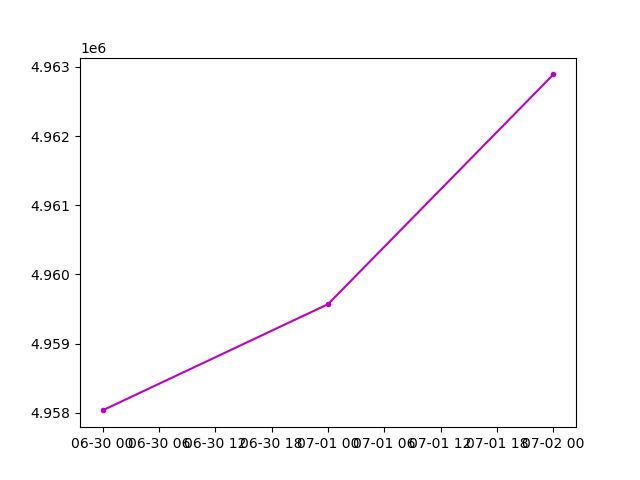
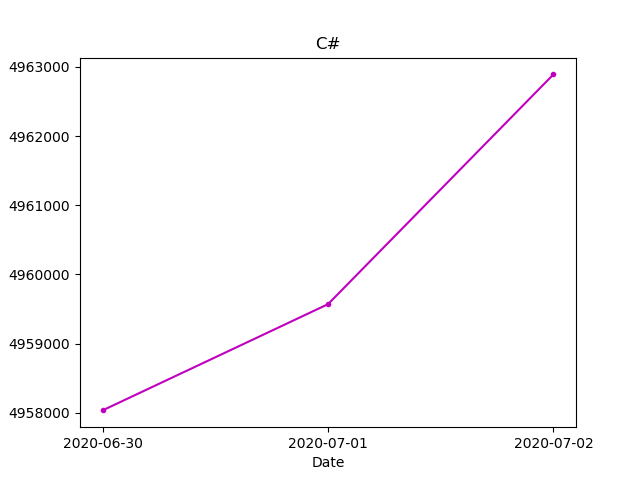
label update

diff --git a/mains/views.py b/mains/views.py
@@ -1,3 +1,4 @@
+from matplotlib.ticker import ScalarFormatter, FormatStrFormatter
 import time
 import requests
 import os
@@ -229,80 +230,166 @@ def setting(request):
     # scala, rust, kotlin, swift, shell, date]
 
     plt.plot(date, javascript, 'rs--')
-
-    print(os.path.join(settings.BASE_DIR, 'mains', 'static',
-                       'mains', 'images', 'javascriptgraph.png'))
-
+    plt.xticks(date)
+    plt.xlabel('Date')
+    plt.ylabel('Issue')
+    plt.title('Javascript')
+    ax = plt.gca()
+    ax.yaxis.set_major_formatter(FormatStrFormatter('%.0f'))
     plt.savefig(os.path.join(settings.BASE_DIR, 'mains', 'static',
                              'mains', 'images', 'javascriptgraph.png'))
 
     plt.cla()
     plt.plot(date, java, 'mo--')
+    plt.xticks(date)
+    plt.xlabel('Date')
+    plt.ylabel('Issue')
+    plt.title('Java')
+    ax = plt.gca()
+    ax.yaxis.set_major_formatter(FormatStrFormatter('%.0f'))
     plt.savefig(os.path.join(settings.BASE_DIR, 'mains',
                              'static', 'mains', 'images', 'javagraph.png'))
 
     plt.cla()
     plt.plot(date, python, 'c.-')
+    plt.xticks(date)
+    plt.xlabel('Date')
+    plt.ylabel('Issue')
+    plt.title('Python')
+    ax = plt.gca()
+    ax.yaxis.set_major_formatter(FormatStrFormatter('%.0f'))
     plt.savefig(os.path.join(settings.BASE_DIR, 'mains',
                              'static', 'mains', 'images', 'pythongraph.png'))
 
     plt.cla()
     plt.plot(date, c, 'rs-')
+    plt.xticks(date)
+    plt.xlabel('Date')
+    plt.ylabel('Issue')
+    plt.title('C')
+    ax = plt.gca()
+    ax.yaxis.set_major_formatter(FormatStrFormatter('%.0f'))
     plt.savefig(os.path.join(settings.BASE_DIR, 'mains',
                              'static', 'mains', 'images', 'cgraph.png'))
 
     plt.cla()
     plt.plot(date, csharp, 'm.-')
+    plt.xticks(date)
+    plt.xlabel('Date')
+    plt.ylabel('Issue')
+    plt.title('C#')
+    ax = plt.gca()
+    ax.yaxis.set_major_formatter(FormatStrFormatter('%.0f'))
     plt.savefig(os.path.join(settings.BASE_DIR, 'mains',
                              'static', 'mains', 'images', 'csharpgraph.png'))
 
     plt.cla()
     plt.plot(date, cplus, 'co--')
+    plt.xticks(date)
+    plt.xlabel('Date')
+    plt.ylabel('Issue')
+    plt.title('C++')
+    ax = plt.gca()
+    ax.yaxis.set_major_formatter(FormatStrFormatter('%.0f'))
     plt.savefig(os.path.join(settings.BASE_DIR, 'mains',
                              'static', 'mains', 'images', 'cplusgraph.png'))
 
     plt.cla()
     plt.plot(date, go, 'ro-')
+    plt.xticks(date)
+    plt.xlabel('Date')
+    plt.ylabel('Issue')
+    plt.title('GO')
+    ax = plt.gca()
+    ax.yaxis.set_major_formatter(FormatStrFormatter('%.0f'))
     plt.savefig(os.path.join(settings.BASE_DIR, 'mains',
                              'static', 'mains', 'images', 'gograph.png'))
 
     plt.cla()
     plt.plot(date, ruby, 'g^-.')
+    plt.xticks(date)
+    plt.xlabel('Date')
+    plt.ylabel('Issue')
+    plt.title('Ruby')
+    ax = plt.gca()
+    ax.yaxis.set_major_formatter(FormatStrFormatter('%.0f'))
     plt.savefig(os.path.join(settings.BASE_DIR, 'mains',
                              'static', 'mains', 'images', 'rubygraph.png'))
 
     plt.cla()
     plt.plot(date, typescript, 'yv--')
+    plt.xticks(date)
+    plt.xlabel('Date')
+    plt.ylabel('Issue')
+    plt.title('TypeScript')
+    ax = plt.gca()
+    ax.yaxis.set_major_formatter(FormatStrFormatter('%.0f'))
     plt.savefig(os.path.join(settings.BASE_DIR, 'mains', 'static',
                              'mains', 'images', 'typescriptgraph.png'))
 
     plt.cla()
     plt.plot(date, php, 'mD:')
+    plt.xticks(date)
+    plt.xlabel('Date')
+    plt.ylabel('Issue')
+    plt.title('PHP')
+    ax = plt.gca()
+    ax.yaxis.set_major_formatter(FormatStrFormatter('%.0f'))
     plt.savefig(os.path.join(settings.BASE_DIR, 'mains',
                              'static', 'mains', 'images', 'phpgraph.png'))
 
     plt.cla()
     plt.plot(date, scala, 'b*-')
+    plt.xticks(date)
+    plt.xlabel('Date')
+    plt.ylabel('Issue')
+    plt.title('Scala')
+    ax = plt.gca()
+    ax.yaxis.set_major_formatter(FormatStrFormatter('%.0f'))
     plt.savefig(os.path.join(settings.BASE_DIR, 'mains',
                              'static', 'mains', 'images', 'scalagraph.png'))
 
     plt.cla()
     plt.plot(date, rust, 'r>-')
+    plt.xticks(date)
+    plt.xlabel('Date')
+    plt.ylabel('Issue')
+    plt.title('Rust')
+    ax = plt.gca()
+    ax.yaxis.set_major_formatter(FormatStrFormatter('%.0f'))
     plt.savefig(os.path.join(settings.BASE_DIR, 'mains',
                              'static', 'mains', 'images', 'rustgraph.png'))
 
     plt.cla()
     plt.plot(date, kotlin, 'kx--')
+    plt.xticks(date)
+    plt.xlabel('Date')
+    plt.ylabel('Issue')
+    plt.title('Kotlin')
+    ax = plt.gca()
+    ax.yaxis.set_major_formatter(FormatStrFormatter('%.0f'))
     plt.savefig(os.path.join(settings.BASE_DIR, 'mains',
                              'static', 'mains', 'images', 'kotlingraph.png'))
 
     plt.cla()
     plt.plot(date, swift, 'c_:')
+    plt.xticks(date)
+    plt.xlabel('Date')
+    plt.ylabel('Issue')
+    plt.title('Swift')
+    ax = plt.gca()
+    ax.yaxis.set_major_formatter(FormatStrFormatter('%.0f'))
     plt.savefig(os.path.join(settings.BASE_DIR, 'mains',
                              'static', 'mains', 'images', 'swiftgraph.png'))
 
     plt.cla()
     plt.plot(date, shell, 'gh--')
+    plt.xticks(date)
+    plt.xlabel('Date')
+    plt.ylabel('Issue')
+    plt.title('Shell')
+    ax = plt.gca()
+    ax.yaxis.set_major_formatter(FormatStrFormatter('%.0f'))
     plt.savefig(os.path.join(settings.BASE_DIR, 'mains',
                              'static', 'mains', 'images', 'shellgraph.png'))
     return render(request, 'mains/insite.html')
